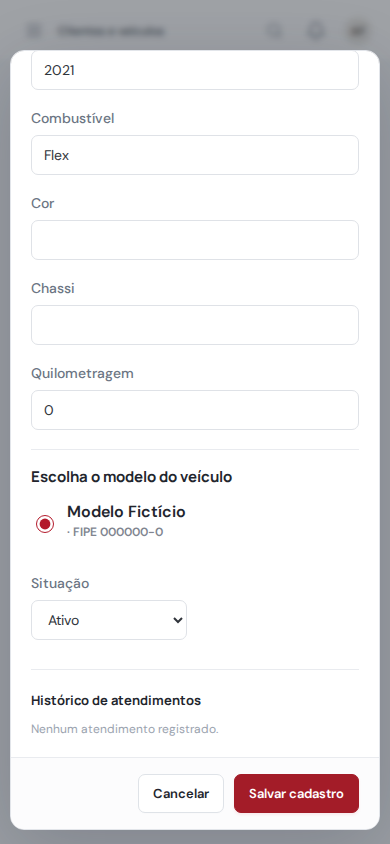
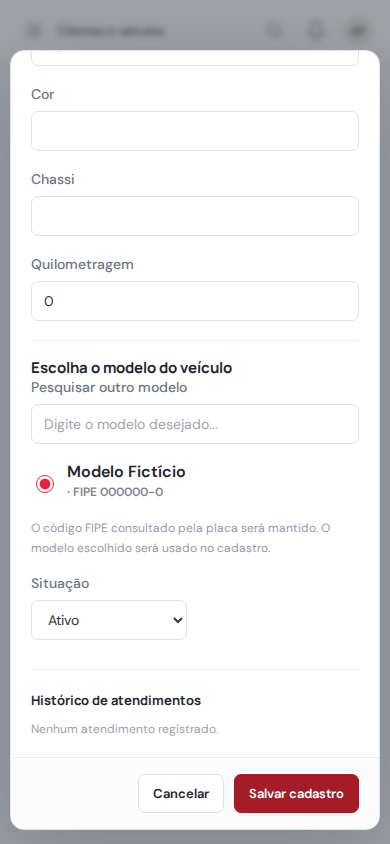
Atualiza capturas da escolha de modelo com FIPE divergente

diff --git a/docs/mapeamento-visual/CHECKLIST.md b/docs/mapeamento-visual/CHECKLIST.md
@@ -119,8 +119,8 @@ Estados: capturada, pendente, bloqueada e não aplicável.
 | cad005-switch-mobile | Ordens de serviço | CAD-005 — Troca de veículo no atendimento (mobile) — Formulário real com dados fictícios; identificação FIPE independente da associação técnica. | [`capturas/07-ordens-servico/cad005-switch-mobile.png`](./capturas/07-ordens-servico/cad005-switch-mobile.png) | capturada | 2026-10-30 | f6e2a4cb13517dc8f57dc1703586ce27268d004c | — |
 | cad005-register-footer-mobile | Veículos | CAD-005 — Novo veículo (mobile) — rodapé — Formulário real com dados fictícios; identificação FIPE independente da associação técnica. | [`capturas/04-veiculos/cad005-register-footer-mobile.png`](./capturas/04-veiculos/cad005-register-footer-mobile.png) | capturada | 2026-10-30 | f6e2a4cb13517dc8f57dc1703586ce27268d004c | — |
 | cad005-review-footer-mobile | Veículos | CAD-005 — Revisão de veículo (mobile) — rodapé — Formulário real com dados fictícios; identificação FIPE independente da associação técnica. | [`capturas/04-veiculos/cad005-review-footer-mobile.png`](./capturas/04-veiculos/cad005-review-footer-mobile.png) | capturada | 2026-10-30 | f6e2a4cb13517dc8f57dc1703586ce27268d004c | — |
-| cad005-review-catalog-desktop | Veículos | CAD-005 — Associação manual no modal (desktop) — Revisão real com seleção única do modelo do veículo e código FIPE, usando dados fictícios. | [`capturas/04-veiculos/cad005-review-catalog-desktop.png`](./capturas/04-veiculos/cad005-review-catalog-desktop.png) | capturada | 2026-11-03 | eb61ac242259c0294f2056a6f5a70b1b8b2127e1 | — |
-| cad005-review-catalog-mobile | Veículos | CAD-005 — Associação manual no modal (mobile) — Revisão real com seleção única do modelo do veículo e código FIPE, usando dados fictícios. | [`capturas/04-veiculos/cad005-review-catalog-mobile.png`](./capturas/04-veiculos/cad005-review-catalog-mobile.png) | capturada | 2026-11-03 | eb61ac242259c0294f2056a6f5a70b1b8b2127e1 | — |
+| cad005-review-catalog-desktop | Veículos | CAD-005 — Escolha de modelo com FIPE divergente (desktop) — Revisão com busca de modelo alternativo e FIPE da placa preservada, com dados fictícios. | [`capturas/04-veiculos/cad005-review-catalog-desktop.png`](./capturas/04-veiculos/cad005-review-catalog-desktop.png) | capturada | 2026-11-03 | 7417166d474fd11810cdb72038a7aa096d1d0ec9 | — |
+| cad005-review-catalog-mobile | Veículos | CAD-005 — Escolha de modelo com FIPE divergente (mobile) — Revisão com busca de modelo alternativo e FIPE da placa preservada, com dados fictícios. | [`capturas/04-veiculos/cad005-review-catalog-mobile.png`](./capturas/04-veiculos/cad005-review-catalog-mobile.png) | capturada | 2026-11-03 | 7417166d474fd11810cdb72038a7aa096d1d0ec9 | — |
 | adm0021-oficina-permissoes-desktop | Painel Administrativo Central | Acessos e permissões da oficina — ADM-002.2: consulta externa de placas liberada independentemente do catálogo. Interface real em Chromium com API fictícia; backend validado separadamente. | [`capturas/17-painel-admin-central/adm0021-oficina-permissoes-desktop.png`](./capturas/17-painel-admin-central/adm0021-oficina-permissoes-desktop.png) | capturada | 2026-11-01 | 2708c7c44e1db1c0938fbf03b17ff9ab8e7f1069 | Dados fictícios, sem chaves ou banco persistente. CI #277; captura revisada visualmente. |
 | adm0021-oficina-convites-mobile | Painel Administrativo Central | Convites e ativação no celular — Interface real da ADM-002.1 em Chromium, com API fictícia interceptada; integração PostgreSQL validada separadamente. | [`capturas/17-painel-admin-central/adm0021-oficina-convites-mobile.png`](./capturas/17-painel-admin-central/adm0021-oficina-convites-mobile.png) | capturada | 2026-10-30 | fdbee764e0dfdcaeb7698131779d52a4a8a6a4a8 | Dados fictícios de navegador, sem credenciais, tokens ou acesso ao banco persistente. CI #273. |
 | adm0021-oficina-dados-mobile | Painel Administrativo Central | Dados gerais no celular — Interface real da ADM-002.1 em Chromium, com API fictícia interceptada; integração PostgreSQL validada separadamente. | [`capturas/17-painel-admin-central/adm0021-oficina-dados-mobile.png`](./capturas/17-painel-admin-central/adm0021-oficina-dados-mobile.png) | capturada | 2026-10-30 | fdbee764e0dfdcaeb7698131779d52a4a8a6a4a8 | Dados fictícios de navegador, sem credenciais, tokens ou acesso ao banco persistente. CI #273. |

diff --git a/docs/mapeamento-visual/INDEX.md b/docs/mapeamento-visual/INDEX.md
@@ -154,21 +154,21 @@ Formulário real com dados fictícios; identificação FIPE independente da asso
 
 Estado: capturada · mobile · captura 2026-10-30 · commit de origem: f6e2a4cb13517dc8f57dc1703586ce27268d004c · [arquivo completo](./capturas/04-veiculos/cad005-review-footer-mobile.png)
 
-### CAD-005 — Associação manual no modal (desktop)
+### CAD-005 — Escolha de modelo com FIPE divergente (desktop)
 
-Revisão real com seleção única do modelo do veículo e código FIPE, usando dados fictícios.
+Revisão com busca de modelo alternativo e FIPE da placa preservada, com dados fictícios.
 
-[![CAD-005 — Associação manual no modal (desktop)](./capturas/04-veiculos/cad005-review-catalog-desktop.png)](./capturas/04-veiculos/cad005-review-catalog-desktop.png)
+[![CAD-005 — Escolha de modelo com FIPE divergente (desktop)](./capturas/04-veiculos/cad005-review-catalog-desktop.png)](./capturas/04-veiculos/cad005-review-catalog-desktop.png)
 
-Estado: capturada · desktop · captura 2026-11-03 · commit de origem: eb61ac242259c0294f2056a6f5a70b1b8b2127e1 · [arquivo completo](./capturas/04-veiculos/cad005-review-catalog-desktop.png)
+Estado: capturada · desktop · captura 2026-11-03 · commit de origem: 7417166d474fd11810cdb72038a7aa096d1d0ec9 · [arquivo completo](./capturas/04-veiculos/cad005-review-catalog-desktop.png)
 
-### CAD-005 — Associação manual no modal (mobile)
+### CAD-005 — Escolha de modelo com FIPE divergente (mobile)
 
-Revisão real com seleção única do modelo do veículo e código FIPE, usando dados fictícios.
+Revisão com busca de modelo alternativo e FIPE da placa preservada, com dados fictícios.
 
-[![CAD-005 — Associação manual no modal (mobile)](./capturas/04-veiculos/cad005-review-catalog-mobile.png)](./capturas/04-veiculos/cad005-review-catalog-mobile.png)
+[![CAD-005 — Escolha de modelo com FIPE divergente (mobile)](./capturas/04-veiculos/cad005-review-catalog-mobile.png)](./capturas/04-veiculos/cad005-review-catalog-mobile.png)
 
-Estado: capturada · mobile · captura 2026-11-03 · commit de origem: eb61ac242259c0294f2056a6f5a70b1b8b2127e1 · [arquivo completo](./capturas/04-veiculos/cad005-review-catalog-mobile.png)
+Estado: capturada · mobile · captura 2026-11-03 · commit de origem: 7417166d474fd11810cdb72038a7aa096d1d0ec9 · [arquivo completo](./capturas/04-veiculos/cad005-review-catalog-mobile.png)
 
 ## 05 — Checklist
 
